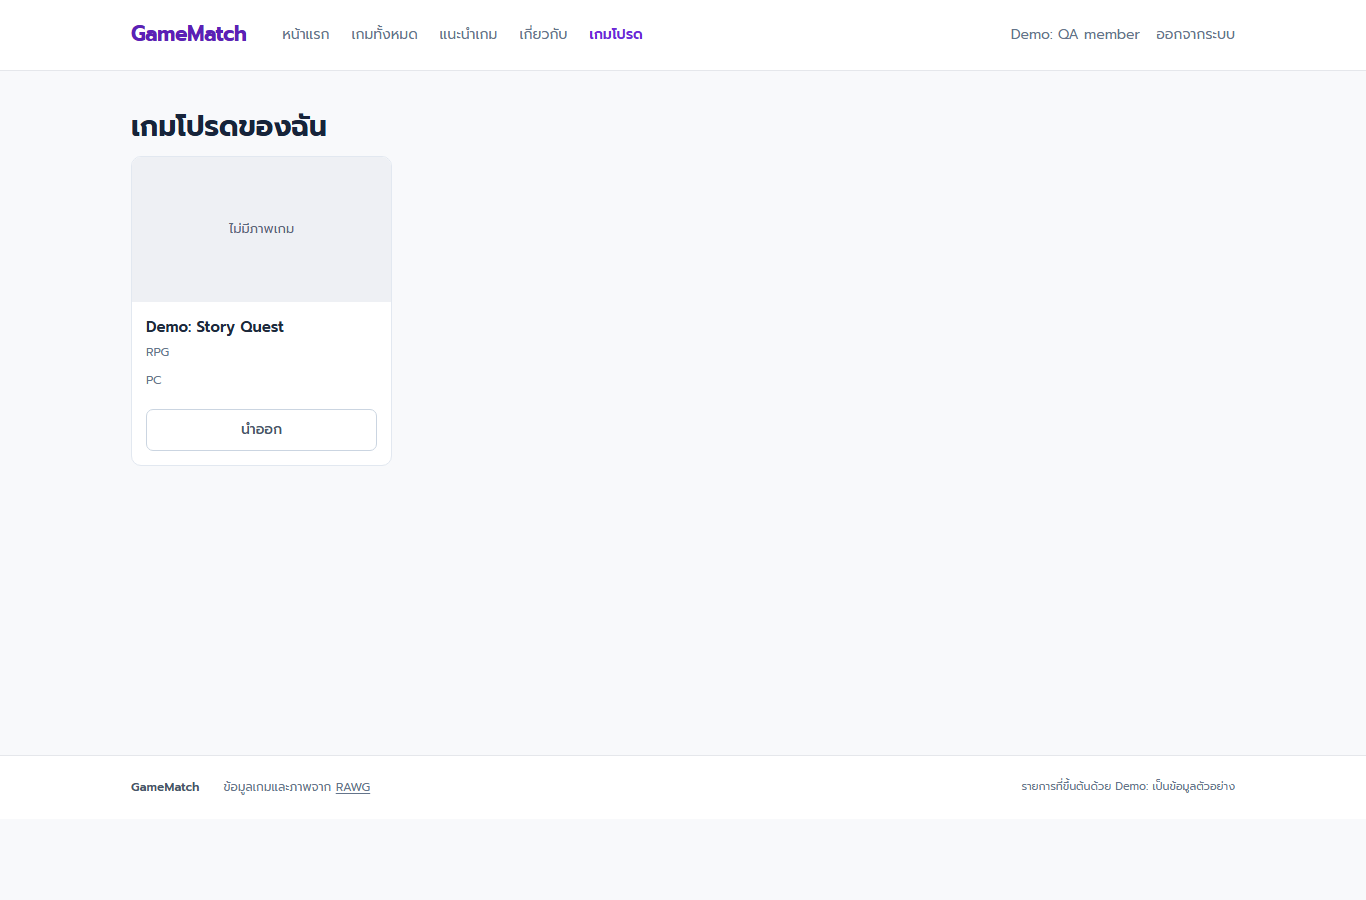
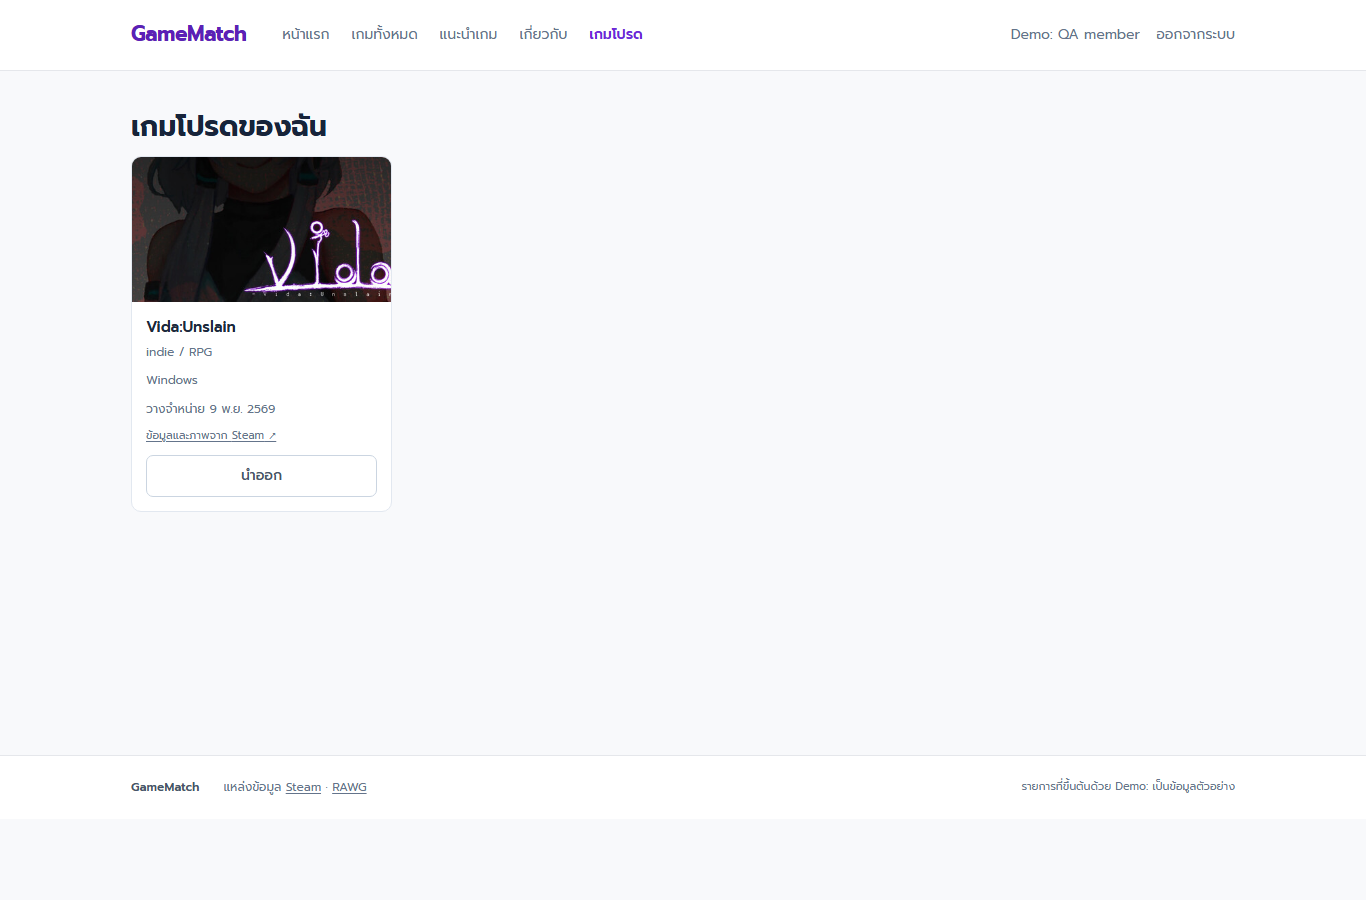
Preserve Steam admin edits and verify real catalog imagery

Changed region(s): [[0.0922, 0.1556, 0.3075, 0.56], [0.1537, 0.8711, 0.2767, 0.9022]]

diff --git a/backend/tests/steam_test.go b/backend/tests/steam_test.go
@@ -86,7 +86,7 @@ func TestDatabaseSteamSyncMetadataPreservationAndRollback(t *testing.T) {
 	if _, err := a.S.DB.Exec(ctx, `UPDATE gm_members SET role='admin' WHERE id=$1`, id); err != nil {
 		t.Fatal(err)
 	}
-	feed := `{"new_releases":{"items":[{"id":501},{"id":502}]}}`
+	feed := `{"new_releases":{"items":[{"id":501,"large_capsule_image":"https://cdn.steamstatic.com/capsule_616x353.jpg"},{"id":502}]}}`
 	page := `<a class="app_tag">Story Rich</a>`
 	a.SteamClient = steamClient(&feed, func(id int64) string { return steamResponse(id, "game", "Jan 1, 2020", false) }, &page)
 	if _, err := a.S.DB.Exec(ctx, `INSERT INTO gm_games(steam_id,title,description,is_published) VALUES(501,'Demo: Original','Admin edit',false)`); err != nil {
@@ -106,6 +106,9 @@ func TestDatabaseSteamSyncMetadataPreservationAndRollback(t *testing.T) {
 		if *g.SteamID == 501 && (g.Description != "Admin edit" || g.Published) {
 			t.Fatal("admin edits overwritten")
 		}
+		if *g.SteamID == 501 && !strings.Contains(g.ImageURL, "capsule_616x353") {
+			t.Fatal("did not prefer the Store capsule")
+		}
 		if *g.SteamID == 502 && g.Description != "Fixture & plain text" {
 			t.Fatal("Steam HTML was not converted to text")
 		}
@@ -113,6 +116,14 @@ func TestDatabaseSteamSyncMetadataPreservationAndRollback(t *testing.T) {
 		if !strings.Contains(joined, "story-rich") || !strings.Contains(joined, "singleplayer") || strings.Contains(joined, "co-op") {
 			t.Fatal("incorrect tag/category mapping")
 		}
+	}
+	if _, err := a.S.DB.Exec(ctx, `UPDATE gm_games SET description='' WHERE steam_id=501`); err != nil {
+		t.Fatal(err)
+	}
+	requestJSON(t, server, "POST", "/api/admin/sync/steam", token, nil, 200, nil)
+	var cleared string
+	if err := a.S.DB.QueryRow(ctx, `SELECT description FROM gm_games WHERE steam_id=501`).Scan(&cleared); err != nil || cleared != "" {
+		t.Fatal("sync overwrote an intentionally cleared description")
 	}
 	if _, err := a.S.DB.Exec(ctx, `CREATE FUNCTION reject_steam_fixture() RETURNS trigger LANGUAGE plpgsql AS $$ BEGIN IF NEW.steam_id=503 THEN RAISE EXCEPTION 'intentional Steam QA rollback'; END IF; RETURN NEW; END $$; CREATE TRIGGER reject_steam BEFORE INSERT ON gm_games FOR EACH ROW EXECUTE FUNCTION reject_steam_fixture();`); err != nil {
 		t.Fatal(err)

diff --git a/backend/handler/steam.go b/backend/handler/steam.go
@@ -150,7 +150,8 @@ func (a *API) SyncSteam(w http.ResponseWriter, r *http.Request) {
 	var catalog struct {
 		NewReleases struct {
 			Items []struct {
-				ID int64 `json:"id"`
+				ID    int64  `json:"id"`
+				Image string `json:"large_capsule_image"`
 			} `json:"items"`
 		} `json:"new_releases"`
 	}
@@ -186,6 +187,9 @@ func (a *API) SyncSteam(w http.ResponseWriter, r *http.Request) {
 		if entry.Data.ID != item.ID || entry.Data.Type != "game" || entry.Data.Release.Soon {
 			continue
 		}
+		if item.Image != "" {
+			entry.Data.Image = item.Image // Store capsule fits the landscape card without cutting header logos.
+		}
 		page, err := steamFetch(ctx, client, "/app/"+id+"/?l=english&cc=th")
 		if err != nil {
 			fail(w, 502, "โหลดแท็ก Steam ไม่สำเร็จ ข้อมูลเดิมยังอยู่")
@@ -207,7 +211,7 @@ func (a *API) SyncSteam(w http.ResponseWriter, r *http.Request) {
 	defer tx.Rollback(ctx)
 	for i := len(games) - 1; i >= 0; i-- {
 		g := games[i]
-		_, err = tx.Exec(ctx, `INSERT INTO gm_games(steam_id,title,description,image_url,genres,tags,platforms,release_date,synced_at) VALUES($1,$2,$3,$4,$5,$6,$7,$8::date,now()) ON CONFLICT(steam_id) DO UPDATE SET title=EXCLUDED.title,image_url=EXCLUDED.image_url,genres=EXCLUDED.genres,tags=EXCLUDED.tags,platforms=EXCLUDED.platforms,release_date=EXCLUDED.release_date,synced_at=EXCLUDED.synced_at,description=CASE WHEN gm_games.description='' THEN EXCLUDED.description ELSE gm_games.description END`, g.SteamID, g.Title, g.Description, g.ImageURL, g.Genres, g.Tags, g.Platforms, g.ReleaseDate)
+		_, err = tx.Exec(ctx, `INSERT INTO gm_games(steam_id,title,description,image_url,genres,tags,platforms,release_date,synced_at) VALUES($1,$2,$3,$4,$5,$6,$7,$8::date,now()) ON CONFLICT(steam_id) DO UPDATE SET title=EXCLUDED.title,image_url=EXCLUDED.image_url,genres=EXCLUDED.genres,tags=EXCLUDED.tags,platforms=EXCLUDED.platforms,release_date=EXCLUDED.release_date,synced_at=EXCLUDED.synced_at`, g.SteamID, g.Title, g.Description, g.ImageURL, g.Genres, g.Tags, g.Platforms, g.ReleaseDate)
 		if err != nil {
 			dbError(w, err)
 			return

diff --git a/docs/VALIDATION.md b/docs/VALIDATION.md
@@ -1,5 +1,17 @@
 # Validation record — 10 November 2026 (Asia/Bangkok)
 
+## Latest Steam catalog / image verification
+
+The user requested recent real games and images from Steam or another source. Added a separate guarded Go handler `POST /api/admin/sync/steam`, an additive three-column migration (steam_id unique, release_date, synced_at), and date/source-aware React cards/detail/Home. Real Go → Steam Store → Supabase import persisted **12 eligible New Releases**, with release dates supplied by Steam (9 November 2026 in this snapshot), images, categories and Store tags. The four exact original Demo rows were hidden rather than deleted; no user account, favorites or custom game was erased. A separate user-requested Admin promotion was completed and verified; the private email is not recorded in this public repo.
+
+- Frontend format/check, **13 suites / 84 tests**, production build passed. New tests verify Steam image/source/date display and Admin Steam request/reload behavior. Existing RAWG compatibility assertions remain passing.
+- Go tidy/fmt/vet/build and **23 passing top-level tests** passed with four isolated-schema Supabase integration tests. One additional real-network import test is explicitly skipped by default; it was run separately with opt-in and passed the actual import (12 entries). Steam checks cover upcoming/DLC/future/ambiguous dates, missing/changed tags, duplicate-safe updates, preserved publication/descriptions including intentional empty descriptions, source capsule selection, guest401/member403, and transaction rollback after a real SQL failure.
+- Hosted image QA: `evidence/steam-browser/report.json` verifies **all 12 actual CDN covers load with naturalWidth >0**, no placeholders or uncaught page errors, source links/dates and no horizontal overflow at 1366/390/320px. Nine screenshots were captured and reviewed as local image files, without accessing the user's desktop/browser.
+- Hosted full user journeys were repeated against the real Steam catalog. `evidence/cloud-browser/report.json` now includes an actual Admin Steam button fetch/import plus the existing Guest/Member/Admin/auth/persistence flows; temporary QA users/game were removed.
+- Source snapshot: `evidence/steam-catalog.json`. Steam sync reads public Store endpoints, at most 20 candidates and 12 eligible games, manually on Admin request. This is a feed snapshot, not an exhaustive all-platform ranking or a scheduled updater. These endpoints are not a guaranteed versioned Steamworks contract; upstream/schema changes fail with 502 and keep the old catalog. Genre/category/Store tag values are mapped without inferring co-op from generic multiplayer. Descriptions are plain text. Per-game and page-level Steam credits/links are present; RAWG stays available as an optional separate import requiring a real key.
+
+The following sections retain earlier snapshots; their older Demo-only/RAWG-key-pending and test counts do not describe the latest Steam catalog.
+
 ## Latest full-stack run — 10 November 2026
 
 - Created **gamematch-db** (`mcwhgbiodyqotfgwzgkd`) in the user-selected Supabase organization, Singapore, after the user explicitly accepted the quoted **$0/month**. Applied `database/schema.sql` and the four explicitly fictional `Demo:` seed rows. MovieHub was not resumed or modified.

diff --git a/README.md b/README.md
@@ -81,6 +81,7 @@ npm run check
 `npm run check` ตรวจ format → React tests → production build ตามลำดับ และหยุดเมื่อขั้นใดไม่ผ่าน หน้ารายการโหลดเกมจาก Go แล้วค้นหา/เลือกแนวด้วย state ในเครื่องตามตัวอย่าง MovieHub; กดพิมพ์ไม่ส่ง API ใหม่ทุกตัวอักษร ไม่มี cache รายวันเพื่อให้เปิดหน้าใหม่แล้วเห็นการแก้ข้อมูลของ Admin
 
 ## 4. สร้าง Admin และนำเข้าเกมจริง
+- หน้า Admin มีปุ่ม **อัปเดตเกมออกใหม่ Steam** ใช้ได้ทันทีโดยไม่ต้องมี RAWG key นำเข้า New Releases สูงสุด 12 เกมต่อรอบ พร้อมภาพ landscape, วันที่วางจำหน่าย และลิงก์ต้นทาง เป็นการกดอัปเดตเอง ไม่ใช่การดึงอัตโนมัติทุกครั้งที่ผู้ชมเปิดเว็บ
 - สมัครสมาชิกผ่านเว็บ ไม่มี default account หรือรหัสผ่านฝังในโค้ด
 - Supabase SQL Editor: `UPDATE gm_members SET role='admin' WHERE email='YOUR_REGISTERED_EMAIL';`
 - Reload/เข้าสู่ระบบใหม่เพื่อให้ FE อ่าน role ล่าสุด (Backend ตรวจ role จาก DB ทุกคำขอ)
@@ -92,7 +93,7 @@ npm run check
 ## 5. Deploy
 ใช้ mono-repo นี้ได้ หรือแยก frontend/backend เป็น 2 repos ตามที่ทีมสะดวก
 
-ผลจริงล่าสุดอยู่ใน `docs/DEPLOYMENT.md`: Frontend https://gamematch-projectweb-befe.vercel.app เรียก Backend https://gamematch-api-hzv6.onrender.com ซึ่งเชื่อม Supabase จริง ตั้ง CORS ให้ตรง origin แล้ว ข้อมูล Demo ยังคงเป็น fixtures ไม่ใช่ผลนำเข้า RAWG จริง
+ผลจริงล่าสุดอยู่ใน `docs/DEPLOYMENT.md`: Frontend https://gamematch-projectweb-befe.vercel.app เรียก Backend https://gamematch-api-hzv6.onrender.com ซึ่งเชื่อม Supabase จริง ตั้ง CORS ให้ตรง origin แล้ว คลังหลักใช้ Steam จริงและซ่อน Demo เดิมไว้ RAWG เป็นทางเลือกเสริมที่ยังไม่มี key
 
 Vercel:
 - เชื่อม GitHub repo, Root Directory = frontend

diff --git a/frontend/tests/browser/README.md b/frontend/tests/browser/README.md
@@ -45,3 +45,7 @@ node frontend/tests/browser/live.cjs
 ```
 
 โหมดนี้ไม่เปิด local server/Go process และใช้ HTTPS ของจริง ผลแยกไว้ใน `docs/evidence/cloud-browser/` ไม่มี HTTP mock และไม่ใช้ browser session ของผู้ใช้
+
+ตั้ง `$env:GM_QA_STEAM_SYNC='1'` เพิ่มเพื่อทดสอบปุ่ม Admin Steam จริง (จะอัปเดตคลังจริงโดยตั้งใจ) ชุดทดสอบเลือกเกม/คะแนนจาก API ปัจจุบัน ไม่ยึดชื่อ Demo หลังย้ายเป็น Steam
+
+`node frontend/tests/browser/steam-gallery.cjs` ตรวจหน้าสาธารณะบน URL จริงโดยไม่แก้ข้อมูล ตรวจว่ารูป Steam ทุกใบดาวน์โหลดสำเร็จจริง พร้อมวันที่/ลิงก์ต้นทางและขนาดจอ 1366/390/320px ผลแยกใน `docs/evidence/steam-browser/`

diff --git a/docs/DEPLOYMENT.md b/docs/DEPLOYMENT.md
@@ -10,6 +10,8 @@ Only actual completed results are recorded here; a created resource is not proof
 | Vercel | https://gamematch-projectweb-befe.vercel.app — production READY, dpl_8zzFrR5x7pQpWPnzcY6kJogWVtkq, commit fda44e555d3e22c29ba685a82ca6eb2070dd6608; separate project prj_Z3AR2chEAfNNc10ATA06eQ5kM9uh, Node 22, CRA root frontend; public Guest access verified |
 | RAWG | No user key configured; real import pending; Demo seed rows are fictional |
 
+Latest catalog update: the user's requested Steam alternative is now implemented and imported 12 real New Releases with Store art, dates, tags and links. The four original Demo rows are hidden, not deleted. RAWG is optional and its missing key does not block Steam. The registered account the user selected has been promoted to Admin and verified; the private email is omitted from this public document. Image QA at desktop/mobile/narrow and real Admin Steam sync evidence is in `evidence/steam-browser/` and `evidence/cloud-browser/`.
+
 Local start from project root:
 
 ```powershell
